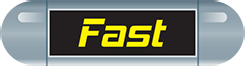
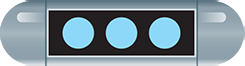
Added first powerup effect

diff --git a/app/src/main/cpp/game/PowerUpManager.h b/app/src/main/cpp/game/PowerUpManager.h
@@ -6,28 +6,18 @@
 #include "scene/ISceneComponent.h"
 #include "Brick.h"
 #include "Paddle.h"
+#include "BallSystem.h"
 
 #define LOGI(...) __android_log_print(ANDROID_LOG_INFO, "Breakout", __VA_ARGS__)
 #define LOGE(...) __android_log_print(ANDROID_LOG_ERROR, "Breakout", __VA_ARGS__)
 
 struct PowerUp {
-    PowerUp(float x, float y)
-            : bounds{x, y, 80, 40} {}
-
-    Rect bounds;
-};
-
-
-class PowerUpManager : public ISceneComponent, public ISceneRender, public ISceneUpdate {
-public:
-    Event<> onPickup;
-
     enum class PowerUpType {
+        MultiBall,
         None,
         ExtraLife,
         ExpandPaddle,
         ShrinkPaddle,
-        MultiBall,
         SlowBall,
         FastBall,
         StickyPaddle,
@@ -35,14 +25,26 @@ public:
         Shield
     };
 
+    PowerUp(float x, float y, PowerUpType type)
+            : bounds{x, y, 80, 40}, powerUpType{type} {}
+
+    Rect bounds;
+    PowerUpType powerUpType;
+};
+
+class PowerUpManager : public ISceneComponent, public ISceneRender, public ISceneUpdate {
+public:
+    Event<> onPickup;
+
     void onAwake() override {
         graphics = getComponent<Graphics>();
         levelManager = getComponent<LevelManager>();
         paddle = getComponent<Paddle>();
+        ballSystem = getComponent<BallSystem>();
 
         if (levelManager) {
             levelManager->onDestroyBrick.subscribe([this](const Brick& brick) {
-                createPowerUp(brick.getBounds().x + 10, brick.getBounds().y + 5);
+                createPowerUp(brick.getBounds().x + 10, brick.getBounds().y + 5, PowerUp::PowerUpType::MultiBall);
             });
         }
     }
@@ -52,7 +54,7 @@ public:
     }
 
     void onUpdate() override {
-        for (auto& powerup : powerups) {
+        for (auto& powerup : powerUps) {
             powerup.bounds.y -= 5;
 
             if(paddle->getBounds().overlaps(powerup.bounds))
@@ -60,35 +62,42 @@ public:
                 removePowerUp(powerup);
 
                 onPickup.invoke();
+
+                for (const auto& ball : ballSystem->getBalls()) {
+                    auto velocity = ball.velocity;
+                    velocity.x = -velocity.x;
+                    ballSystem->createBall(ball.bounds.x, ball.bounds.y, ball.bounds.w, velocity);
+                }
             }
         }
     }
 
     void onRender() override {
-        for (auto& powerup : powerups) {
+        for (auto& powerup : powerUps) {
             auto bounds = powerup.bounds;
-            graphics->drawImage(graphics->resourcePowerUp1, bounds.x, bounds.y, bounds.w, bounds.h,1, 1, 1, 1);
+            graphics->drawImage(graphics->resourcePowerUps[0], bounds.x, bounds.y, bounds.w, bounds.h,1, 1, 1, 1);
         }
     }
 
-    void createPowerUp(float x, float y) {
-        powerups.emplace_back(x, y);
+    void createPowerUp(float x, float y, PowerUp::PowerUpType powerUpType) {
+        powerUps.emplace_back(x, y, powerUpType);
     }
 
     void removePowerUp(const PowerUp& powerUpRef) {
-        auto target = std::find_if(powerups.begin(), powerups.end(),
-                                   [&](const PowerUp& b) {
-                                       return &b == &powerUpRef;
-                                   });
+        auto target = std::find_if(powerUps.begin(), powerUps.end(),
+            [&](const PowerUp& b) {
+                return &b == &powerUpRef;
+            });
 
-        if (target != powerups.end()) {
-            powerups.erase(target);
+        if (target != powerUps.end()) {
+            powerUps.erase(target);
         }
     }
 
 private:
-    std::vector<PowerUp> powerups;
+    std::vector<PowerUp> powerUps;
     std::shared_ptr<LevelManager> levelManager;
+    std::shared_ptr<BallSystem> ballSystem;
     std::shared_ptr<Paddle> paddle;
     std::shared_ptr<Graphics> graphics;
 };

diff --git a/app/src/main/cpp/game/Graphics.h b/app/src/main/cpp/game/Graphics.h
@@ -6,21 +6,27 @@ class Graphics : public ISceneComponent, public ISceneRender {
 public:
     Graphics(AppContext* context) : graphicsAPI(context) {}
 
-    GLuint resourceBackground;
     std::array<GLuint, 3> resourcePaddles;
+    std::array<GLuint, 12> resourcePowerUps;
+    GLuint resourceBackground;
     GLuint resourceBall;
     GLuint resourceBrick1;
-    GLuint resourcePowerUp1;
+
 
     void onAwake() override {
+        for (int i = 1; i <= 12; ++i) {
+            std::string filename = "powerup" + std::to_string(i) + ".png";
+            resourcePowerUps[i - 1] = graphicsAPI.loadTextureFromAssets(filename.c_str());
+        }
+
         for (int i = 1; i <= 3; ++i) {
             std::string filename = "paddle" + std::to_string(i) + ".png";
             resourcePaddles[i - 1] = graphicsAPI.loadTextureFromAssets(filename.c_str());
         }
+
         resourceBackground = graphicsAPI.loadTextureFromAssets("background.png");
         resourceBall = graphicsAPI.loadTextureFromAssets("ball.png");
         resourceBrick1 = graphicsAPI.loadTextureFromAssets("brick1.png");
-        resourcePowerUp1 = graphicsAPI.loadTextureFromAssets("powerup1.png");
     }
 
     void onDestroy() override {}

diff --git a/app/src/main/cpp/game/SoundsManager.h b/app/src/main/cpp/game/SoundsManager.h
@@ -32,7 +32,7 @@ public:
         powerUpManager->onPickup.subscribe([this]() {
             soundsAPI.play("powerup");
         });
-        
+
         auto levelManager = getComponent<LevelManager>();
         if (levelManager) {
             levelManager->onDestroyBrick.subscribe([this](const Brick& brick) {

diff --git a/app/src/main/cpp/game/BallSystem.h b/app/src/main/cpp/game/BallSystem.h
@@ -105,6 +105,10 @@ public:
         balls.emplace_back(x, y, s, v);
     }
 
+    const std::vector<Ball>& getBalls() const {
+        return balls;
+    }
+
 private:
     std::vector<Ball> balls;
     std::shared_ptr<Graphics> graphics;
